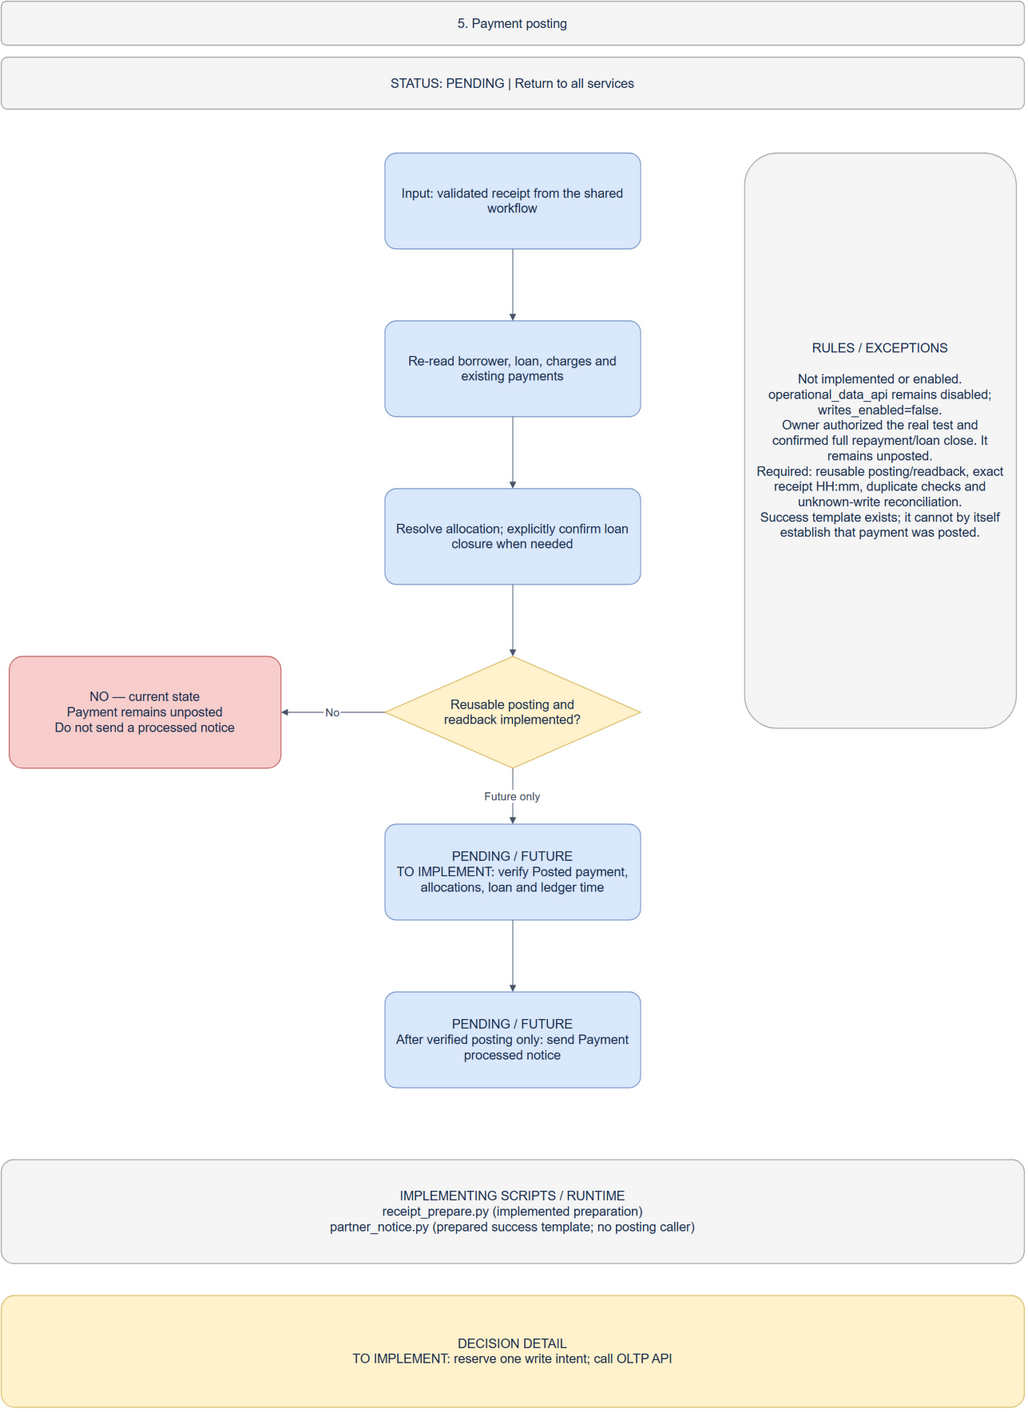
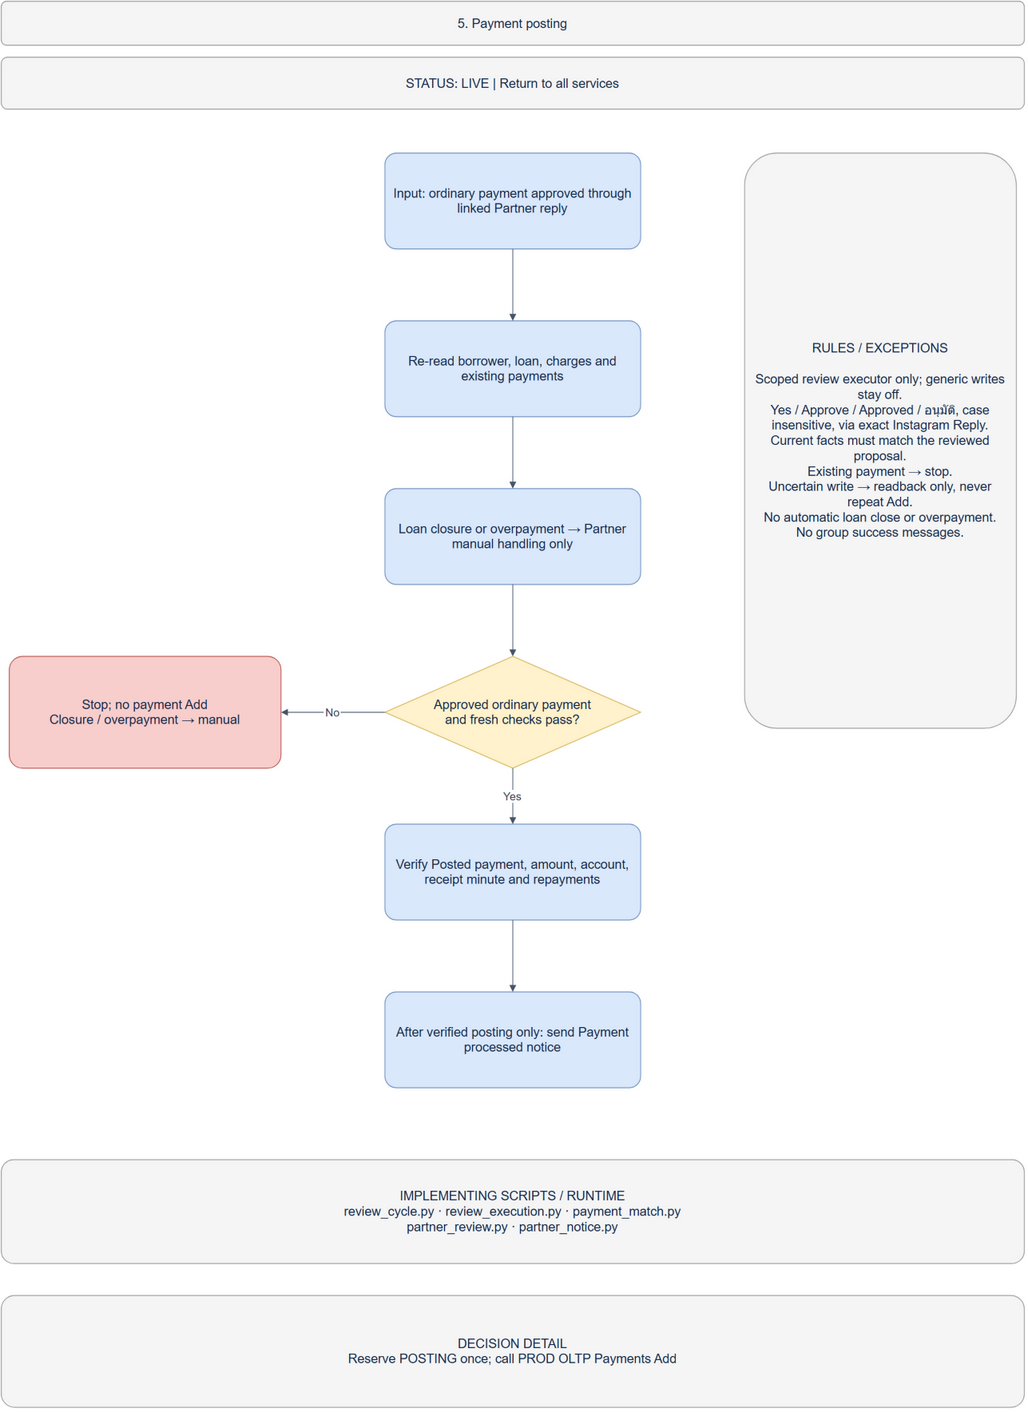
Clarify review fallback and publish updated Partner review process diagram

diff --git a/scripts/generate-business-process.py b/scripts/generate-business-process.py
@@ -47,17 +47,17 @@ pages=[
  'Download bounded image; isolated Codex extracts facts',
  'Validate date, success, amount, transfer time, account aliases and duplicates',
  'Fresh Payments check: already recorded → stop; uncertain → review; otherwise queue notice'],
- 'Today/yesterday Bangkok only.\nActive receiving account; primary or alternative number.\nReference/image duplicate → stop.\nNonreceipt or disabled/unmapped borrower → ignore.\nInvalid receipt → REVIEW.\nCURRENT: summary only; no payment write or group reply.\nreceipt-prepare accepts borrower/date/message parameters and reuses the same extraction and rules.',
+ 'Today/yesterday Bangkok only.\nActive receiving account; primary or alternative number.\nReference/image duplicate → stop.\nNonreceipt or disabled/unmapped borrower → ignore.\nInvalid receipt → REVIEW.\nCURRENT: Partner review before ordinary posting; no group reply.\nreceipt-prepare accepts borrower/date/message parameters and reuses the same extraction and rules.',
  'receipt_run.py · receipt_rules.py · receipt_image.py · payment_match.py\nreceipt_master.py · receipt_journal.py · receipt_prepare.py'),
-('posting','Payment posting','PENDING',[
- 'Input: validated receipt from the shared workflow',
+('posting','Payment posting','LIVE',[
+ 'Input: ordinary payment approved through linked Partner reply',
  'Re-read borrower, loan, charges and existing payments',
- 'Resolve allocation; explicitly confirm loan closure when needed',
- 'TO IMPLEMENT: reserve one write intent; call OLTP API',
- 'TO IMPLEMENT: verify Posted payment, allocations, loan and ledger time',
+ 'Loan closure or overpayment → Partner manual handling only',
+ 'Reserve POSTING once; call PROD OLTP Payments Add',
+ 'Verify Posted payment, amount, account, receipt minute and repayments',
  'After verified posting only: send Payment processed notice'],
- 'Not implemented or enabled.\noperational_data_api remains disabled; writes_enabled=false.\nOwner authorized the real test and confirmed full repayment/loan close. It remains unposted.\nRequired: reusable posting/readback, exact receipt HH:mm, duplicate checks and unknown-write reconciliation.\nSuccess template exists; it cannot by itself establish that payment was posted.',
- 'receipt_prepare.py (implemented preparation)\npartner_notice.py (prepared success template; no posting caller)'),
+ 'Scoped review executor only; generic writes stay off.\nYes / Approve / Approved / อนุมัติ, case insensitive, via exact Instagram Reply.\nCurrent facts must match the reviewed proposal.\nExisting payment → stop.\nUncertain write → readback only, never repeat Add.\nNo automatic loan close or overpayment.\nNo group success messages.',
+ 'review_cycle.py · review_execution.py · payment_match.py\npartner_review.py · partner_notice.py'),
 ('identity','Partner authentication','LIVE',[
  'Read current Partner master for the event',
  'Use Language Preference: English or ไทย',
@@ -65,7 +65,7 @@ pages=[
  'Match one conversation participant to Partner IG username',
  'Verify scoped ID/profile; reject duplicate or changed identities',
  'Check signed inbound window: 24 hours minus 60 seconds'],
- 'Borrower identity never selects the partner recipient.\nChanged delivery details → REVIEW.\nUnavailable route/window → current Partner Email fallback.\nNo inbound partner command execution is enabled.',
+ 'Borrower identity never selects the partner recipient.\nChanged delivery details → REVIEW.\nUnavailable route/window → current Partner Email fallback.\nOnly linked receipt review decisions; no general commands.',
  'statement_delivery.py: eligible, resolve_recipient, check_window\ncash_statement.py: partners · receipt_master.py: masters'),
 ('ig','Instagram notifications','LIVE',[
  'Build text or statement PNGs in each Partner’s preferred language',
@@ -138,9 +138,19 @@ pages.append(('poll','Conversation API polling','LIVE',[
  'API only; no browser automation.\nObserved three-participant conversations are readable through expanded list fields.\nDirect group-history endpoint failed.\nMore than 100 unseen messages → stop; no cursor advance.\nOther senders / text / non-images → ignore.\nFresh activation cutoff; no historical replay.\nPolled records never refresh signed IG reply windows.\nNo group send or payment write.',
  'conversation_poll.py · receipt_journal.py · receipt_run.py\nmw-conversation-poll.timer · docs/CONVERSATION_POLL.md'))
 
+pages.append(('review','Partner receipt review','LIVE',[
+ 'Validated receipt → current balances and existing-payment checks',
+ 'Send localized proposal to Partners by IG; email fallback is informational',
+ 'Require direct Reply to the exact accepted proposal and current Partner identity',
+ 'Yes / Approve / Approved / อนุมัติ after trimming, case insensitive?',
+ 'First valid decision wins; ordinary payment → fresh checks and one Add',
+ 'Closure / overpayment → manual; verified posting → Partner result'],
+ 'Other direct reply → REJECTED.\nUnlinked text → no decision.\nNo reply → pending; expires after 24 hours.\nEither Partner may decide.\nReplay cannot execute twice.\nChanged identity or facts → stop.\nLoan closures and overpayments are manual-only even after approval.\nEmail reply cannot approve.\nNo browser automation or group reply.',
+ 'partner_review.py · review_proposal.py · review_cycle.py\nwebhook.py · journal.py · partner_notice.py'))
+
 r=page('agent-overview','01 · Agent overview',1460)
 box(r,'title','MW INTEGRATION AGENT | Overall operating flow',60,25,1280,55,'note')
-box(r,'status','LIVE: receipt summaries and daily cash statements · PENDING: payment posting\nDebian runtime · Click a process to open its detailed page',60,95,1280,65,'note')
+box(r,'status','LIVE: receipt review, approved ordinary payments and daily cash statements\nLoan closures / overpayments: Partner manual handling · Click for detailed pages',60,95,1280,65,'note')
 # Three connected lanes follow the source agent overview: entries, workers,
 # shared data services, delivery and durable state. Existing page IDs stay stable.
 for key,label,col,row,kind,target in [
@@ -152,9 +162,9 @@ for key,label,col,row,kind,target in [
  ('masters','Shared read-only data access\nPROD OLTP / OLAP API + PostgreSQL',2,1,'step','api'),
  ('render','Render statement images\nEnglish / Thai, receipt time HH:mm',0,2,'step','statement'),
  ('validate','Receipt worker: map borrower\nExtract image and validate receipt',1,2,'step','receipts'),
- ('post','PENDING: reusable payment posting\nExact OLTP readback before success',2,3,'PENDING','posting'),
+ ('post','Linked Partner approval\nOrdinary payment + exact readback',2,3,'LIVE','review'),
  ('identity','Current Partner identity, language\nIG route and messaging window',0,3,'step','identity'),
- ('notice','Prepare localized receipt summary\nCurrent path does not post payment',1,3,'step','ig'),
+ ('notice','Prepare localized action proposal\nClosure / overpayment: manual only',1,3,'step','review'),
  ('igsend','Instagram API delivery\nNo receipt-success group message',1,4,'step','ig'),
  ('fallback','Email fallback and bounded retry\nUnknown sends are not replayed',2,4,'step','email'),
  ('journal','Private SQLite journals\nReceipt deduplication, send intent and uncertain outcomes',1,5,'note',None),
@@ -166,7 +176,7 @@ for a,b,label in [
  ('manual','masters','Fresh masters'),('masters','validate','Borrower / account facts'),
  ('render','identity','Statement'),('validate','notice','Valid receipt'),
  ('identity','igsend','Verified recipient'),('notice','igsend','Summary'),
- ('notice','post','Future'),('igsend','fallback','Fallback'),
+ ('notice','post','Review'),('igsend','fallback','Fallback'),
  ('igsend','journal','Accepted / uncertain'),('fallback','journal','Outcome'),
 ]:
     routes={
@@ -176,20 +186,21 @@ for a,b,label in [
     }
     points,ports=routes.get((a,b),(None,''))
     edge(r,a,b,label,points,ports)
-box(r,'future','Pending posting: only a verified payment may produce a Payment processed notice.\nOperator-selected receipts also use shared preparation. Browser automation is prohibited.\nDisabled: persistent conversations, Partner GUI, briefing and weather. Click for service index.',60,1340,1280,90,'note','overview')
+box(r,'future','Only a verified payment produces a Payment processed notice. No automatic loan closure / overpayment.\nOperator-selected receipts use shared preparation. Browser automation is prohibited.\nDisabled: general conversations, Partner GUI, briefing and weather. Click for service index.',60,1340,1280,90,'note','overview')
 
 r=page('overview','02 · All services',1120)
 box(r,'title','MW INTEGRATION AGENT  |  All services and implementing scripts',40,25,1320,70,'step')
 box(r,'legend','One Debian runtime · Click a service for its detailed flowchart\nGreen = live outcome / service · Blue = process · Yellow = decision / pending · Red = stop · Grey = notes / disabled',40,110,1320,85)
 for i,(key,title,status,*_) in enumerate(pages):
     box(r,key,title,40+(i%3)*445,220+(i//3)*155,420,125,status,key)
-box(r,'scope','Owner review baseline · 21 September 2026\nProduction API configuration is outside releases. Real receipt posting remains pending; no borrower-specific scripts are maintained.',40,1010,1320,80,'PENDING')
+box(r,'scope','Owner review baseline · 21 September 2026\nProduction API configuration is outside releases. Ordinary payments require linked approval; closures and overpayments are manual-only.',40,1010,1320,80,'PENDING')
 # Decision labels describe existing behavior, not new runtime gates.
 decisions={
+ 'review':(3,'Linked reply approves\nthis exact proposal?','Reject other direct replies\nUnlinked / unauthorized → no decision'),
  'poll':(3,'History complete and\nnew-message boundary reached?','Stop and report gap\nDo not advance this checkpoint'),
  'ingress':(2,'Valid signature and\nexpected account?','Reject request; do not create a job'),
  'receipts':(4,'Receipt passes all\nvalidation rules?','Invalid → REVIEW\nNonreceipt / disabled borrower → ignore\nDuplicate → no second processing'),
- 'posting':(3,'Reusable posting and\nreadback implemented?','NO — current state\nPayment remains unposted\nDo not send a processed notice'),
+ 'posting':(3,'Approved ordinary payment\nand fresh checks pass?','Stop; no payment Add\nClosure / overpayment → manual'),
  'identity':(4,'One verified current\nPartner identity?','Reject ambiguous / changed identity\nUnavailable IG route → email fallback'),
  'ig':(4,'Meta accepted the\ncomplete notification?','Unavailable / incomplete / uncertain\nUse email fallback\nNever replay uncertain IG'),
  'email':(4,'Email provider outcome?','Unknown → retain for reconciliation\nNever automatically replay'),

diff --git a/src/mw_integration_agent/partner_notice.py b/src/mw_integration_agent/partner_notice.py
@@ -87,8 +87,12 @@ class NoticeJournal:
               WHERE id=? AND email_status IN ('PENDING','REJECTED') AND attempts<3 AND retry_after<=?""",(item['id'],time.time())).rowcount
         if not claimed:return
         try:
+            fallback_body=item['body']
+            if item['event_key'].startswith('review:'):
+                fallback_body+=('\nอีเมลนี้แจ้งข้อมูลเท่านั้น การตอบอีเมลไม่ใช่การอนุมัติ หากไม่มีข้อความคำขอใน Instagram ให้ดำเนินการเอง' if partner['language']=='ไทย' else
+                    '\nThis email is informational. Email replies cannot approve. If no Instagram request was delivered, handle the payment manually.')
             (mailer or GraphEmail(config)).send(partner['email'],item['subject'],
-                '<p>'+html.escape(item['body']).replace('\n','<br>')+'</p>',[],item['id'])
+                '<p>'+html.escape(fallback_body).replace('\n','<br>')+'</p>',[],item['id'])
         except EmailRejected:
             with self.db:self.db.execute("UPDATE partner_notices SET email_status='REJECTED',retry_after=? WHERE id=?",(time.time()+300,item['id']))
         except Exception:

diff --git a/SERVICE_CATALOGUE.md b/SERVICE_CATALOGUE.md
@@ -2,7 +2,7 @@
 
 Revision 11 — linked Partner receipt reviews, 21 September 2026. The machine-readable manifest is authoritative at runtime and is validated by `mw-integration-agent check`.
 
-Signed Instagram webhook ingress and explicit Instagram delivery are authorized and implemented. Ingress verifies Meta signatures and stores deduplicated messages and image references before acknowledgement. The owner authorized receipt-only processing on 21 September after promoting R011 account aliases. Receipt processing has its own switch and cutoff; generic processing and writes remain disabled.
+Signed Instagram webhook ingress and explicit Instagram delivery are authorized and implemented. Ingress verifies Meta signatures and stores deduplicated messages and image references before acknowledgement. The owner authorized receipt-only processing on 21 September after promoting R011 account aliases. Receipt processing has its own switch and cutoff; generic processing and writes remain disabled; scoped partner-approved ordinary receipt posting is separately enabled.
 
 | Service | State | Migration intent |
 | --- | --- | --- |
@@ -10,7 +10,7 @@ Signed Instagram webhook ingress and explicit Instagram delivery are authorized 
 | conversation_poll | enabled | Five-minute API-only reader for conversations containing AI-enabled borrowers. New cutoff, overlapping checks, shared receipt deduplication. No browser automation or group sends. Bounded history gaps stop without advancing the affected cursor. |
 | signed_webhook_ingress | enabled | Verify signatures, persist before acknowledgement, and deduplicate. Processing stays outside the HTTP request. |
 | receipt_summary | enabled, review input | New eligible images: validate and propose action for linked Partner review. IG first; email fallback is informational and cannot authorize execution. No borrower/group replies. Operator-selected preparation remains read-only. |
-| partner_authentication | enabled for cash statements | Fresh opt-in, supported language, unique username, conversation scoped ID and profile verification. No inbound operational commands. |
+| partner_authentication | enabled for cash statements | Fresh opt-in, supported language, unique username, conversation scoped ID and profile verification. Only linked receipt decisions are supported; no general inbound commands. |
 | daily_cash_statement | enabled and scheduled | Read-only R010 cash effects; 00:00–00:00 Bangkok ledger timestamp; localized account PNGs to all currently enabled Partners at 00:15 Bangkok. |
 | operational_data_read | enabled | Bounded Find-only reads through both production OLTP and OLAP APIs, with separate keys. Probes omit row contents. DEV APIs remain unchanged. |
 | database_connectivity | enabled | Dedicated loopback/Cloud SQL Auth Proxy login with business-table SELECT and TEMP only; no durable operational DML. |
@@ -26,4 +26,4 @@ Denied: arbitrary shell/code execution from inbound content; raw database access
 
 The fixed read-only cash statement query is an authorized database reporting service, not a general SQL tool. The cutoff uses the existing ledger timestamp. On 21 September the owner selected receipt transfer time for receipt payments in that same field; AppSheet R013/V30 is deployed to production. Opening balances retain R010 opening-minus-baseline offsets; effective movement dates are shown when different. Each period freezes a private snapshot and each account/partner/page has a durable send key. An uncertain Instagram send blocks Instagram replay and starts the complete email fallback. Use fresh Partner master records and signed-ingress 24-hour windows with a 60-second margin. No public statement hosting is authorized.
 
-Cash statements support only completed Bangkok calendar days. Output language follows current Partner master. Receipt summaries use a 20-second queue timer; partner notices try Instagram first and use email fallback only when unavailable or uncertain. IG opt-in controls IG delivery; a disabled IG route can fall back to that Partner's Email. Direct-email legacy entries are superseded only if definitely unsent; SENT/UNKNOWN history remains. A new notification cutoff prevents replay of earlier receipts. Successful posting notices must be based on verified payment readback; the template exists but the payment-writing service remains unimplemented. No success notice goes to the borrower/group.
+Cash statements support only completed Bangkok calendar days. Output language follows current Partner master. Receipt summaries use a 20-second queue timer; partner notices try Instagram first and use email fallback only when unavailable or uncertain. IG opt-in controls IG delivery; a disabled IG route can fall back to that Partner's Email. Direct-email legacy entries are superseded only if definitely unsent; SENT/UNKNOWN history remains. A new notification cutoff prevents replay of earlier receipts. Successful posting notices require verified payment readback from the scoped Partner review executor. Loan closures and overpayments require manual handling. No success notice goes to the borrower/group.

diff --git a/docs/BUSINESS_PROCESS.md b/docs/BUSINESS_PROCESS.md
@@ -1,12 +1,12 @@
 # Agent service processes
 
-The authoritative editable diagram is [BUSINESS_PROCESS.drawio](BUSINESS_PROCESS.drawio). Its 16 linked pages start with an agent operating-flow overview (01), followed by the service index (02) and a detailed page for each service, including disabled and pending capabilities. Each detail page names its scripts, steps, decisions and exceptions. [BUSINESS_PROCESS.png](BUSINESS_PROCESS.png) is the overview; individual page images are in [process-pages](process-pages/). Regenerate after a process change:
+The authoritative editable diagram is [BUSINESS_PROCESS.drawio](BUSINESS_PROCESS.drawio). Its 17 linked pages start with an agent operating-flow overview (01), followed by the service index (02) and a detailed page for each service, including disabled and pending capabilities. Each detail page names its scripts, steps, decisions and exceptions. [BUSINESS_PROCESS.png](BUSINESS_PROCESS.png) is the overview; individual page images are in [process-pages](process-pages/). Regenerate after a process change:
 
 ```powershell
 python scripts/generate-business-process.py
 & 'C:\Program Files\draw.io\draw.io.exe' --export --format png --scale 1.2 --output docs\BUSINESS_PROCESS.png docs\BUSINESS_PROCESS.drawio
 ```
 
-The visual style follows MW-Partner-Operations: blue rounded process boxes, yellow decision diamonds, labeled orthogonal branches, red stop paths and grey side notes. Each page retains an explicit LIVE, PENDING or DISABLED status. The service index uses green for live services, amber for pending payment posting and grey for disabled services. A diagram page does not activate a capability.
+The visual style follows MW-Partner-Operations: blue rounded process boxes, yellow decision diamonds, labeled orthogonal branches, red stop paths and grey side notes. Each page retains an explicit LIVE, PENDING or DISABLED status. The service index uses green for live services, amber for decisions and grey for disabled services. A diagram page does not activate a capability.
 
-Owner correction, 21 September: all Partner notifications start with Instagram and use email only as fallback. Receipt success requires verified payment readback and must not send to the borrower/group. The parameterized `receipt-prepare` command shares extraction and validation with the webhook worker; no person-specific scripts are maintained. The real loan-close test remains unposted while its reusable posting stage is pending.
+Owner correction, 21 September: all Partner notifications start with Instagram and use email only as fallback. Receipt success requires verified payment readback and must not send to the borrower/group. The parameterized `receipt-prepare` command shares extraction and validation with the webhook worker; no person-specific scripts are maintained. Partner review now gates ordinary payment posting; loan closes and overpayments are manual-only by owner decision. See PARTNER_REVIEW.md.

diff --git a/docs/RECEIPTS.md b/docs/RECEIPTS.md
@@ -1,3 +1,7 @@
+# Current review behavior — 21 September 2026
+
+New validated receipts enter [Partner review](PARTNER_REVIEW.md). Ordinary payments require an exact linked approval; loan closures and overpayments are manual-only. This supersedes the earlier summary-only and pending-posting descriptions below, which describe the previous implementation. Shared extraction, receipt validation and duplicate checks remain applicable.
+
 # Incoming payment receipt summaries
 
 Owner scope, 21 September 2026: restore receipt handling using the retired MW AI Collection implementation as a reference. The owner promoted AppSheet R011 / PostgreSQL V29 and populated Cash Accounts Alternative Account Number before authorizing this implementation. Run on the current Linux webhook owner only. Do not start either retired Windows runtime.

diff --git a/docs/OPERATIONS.md b/docs/OPERATIONS.md
@@ -84,3 +84,7 @@ The owner authorized the receiver, two-way transport foundation, daily cash stat
 ## Conversation polling
 
 The owner-authorized [API-only conversation reader](CONVERSATION_POLL.md) runs every five minutes for conversations containing AI-enabled borrowers. Browser automation is prohibited. History gaps fail without advancing the checkpoint; inspect mw-conversation-poll.service for errors. Financial writes remain disabled.
+
+## Partner receipt review
+
+See [Partner review](PARTNER_REVIEW.md). Scoped ordinary receipt execution requires a linked Partner approval; potential loan closes and overpayments remain manual-only. This supersedes earlier statements that all financial writes are unavailable. General commands and direct SQL writes remain disabled.
